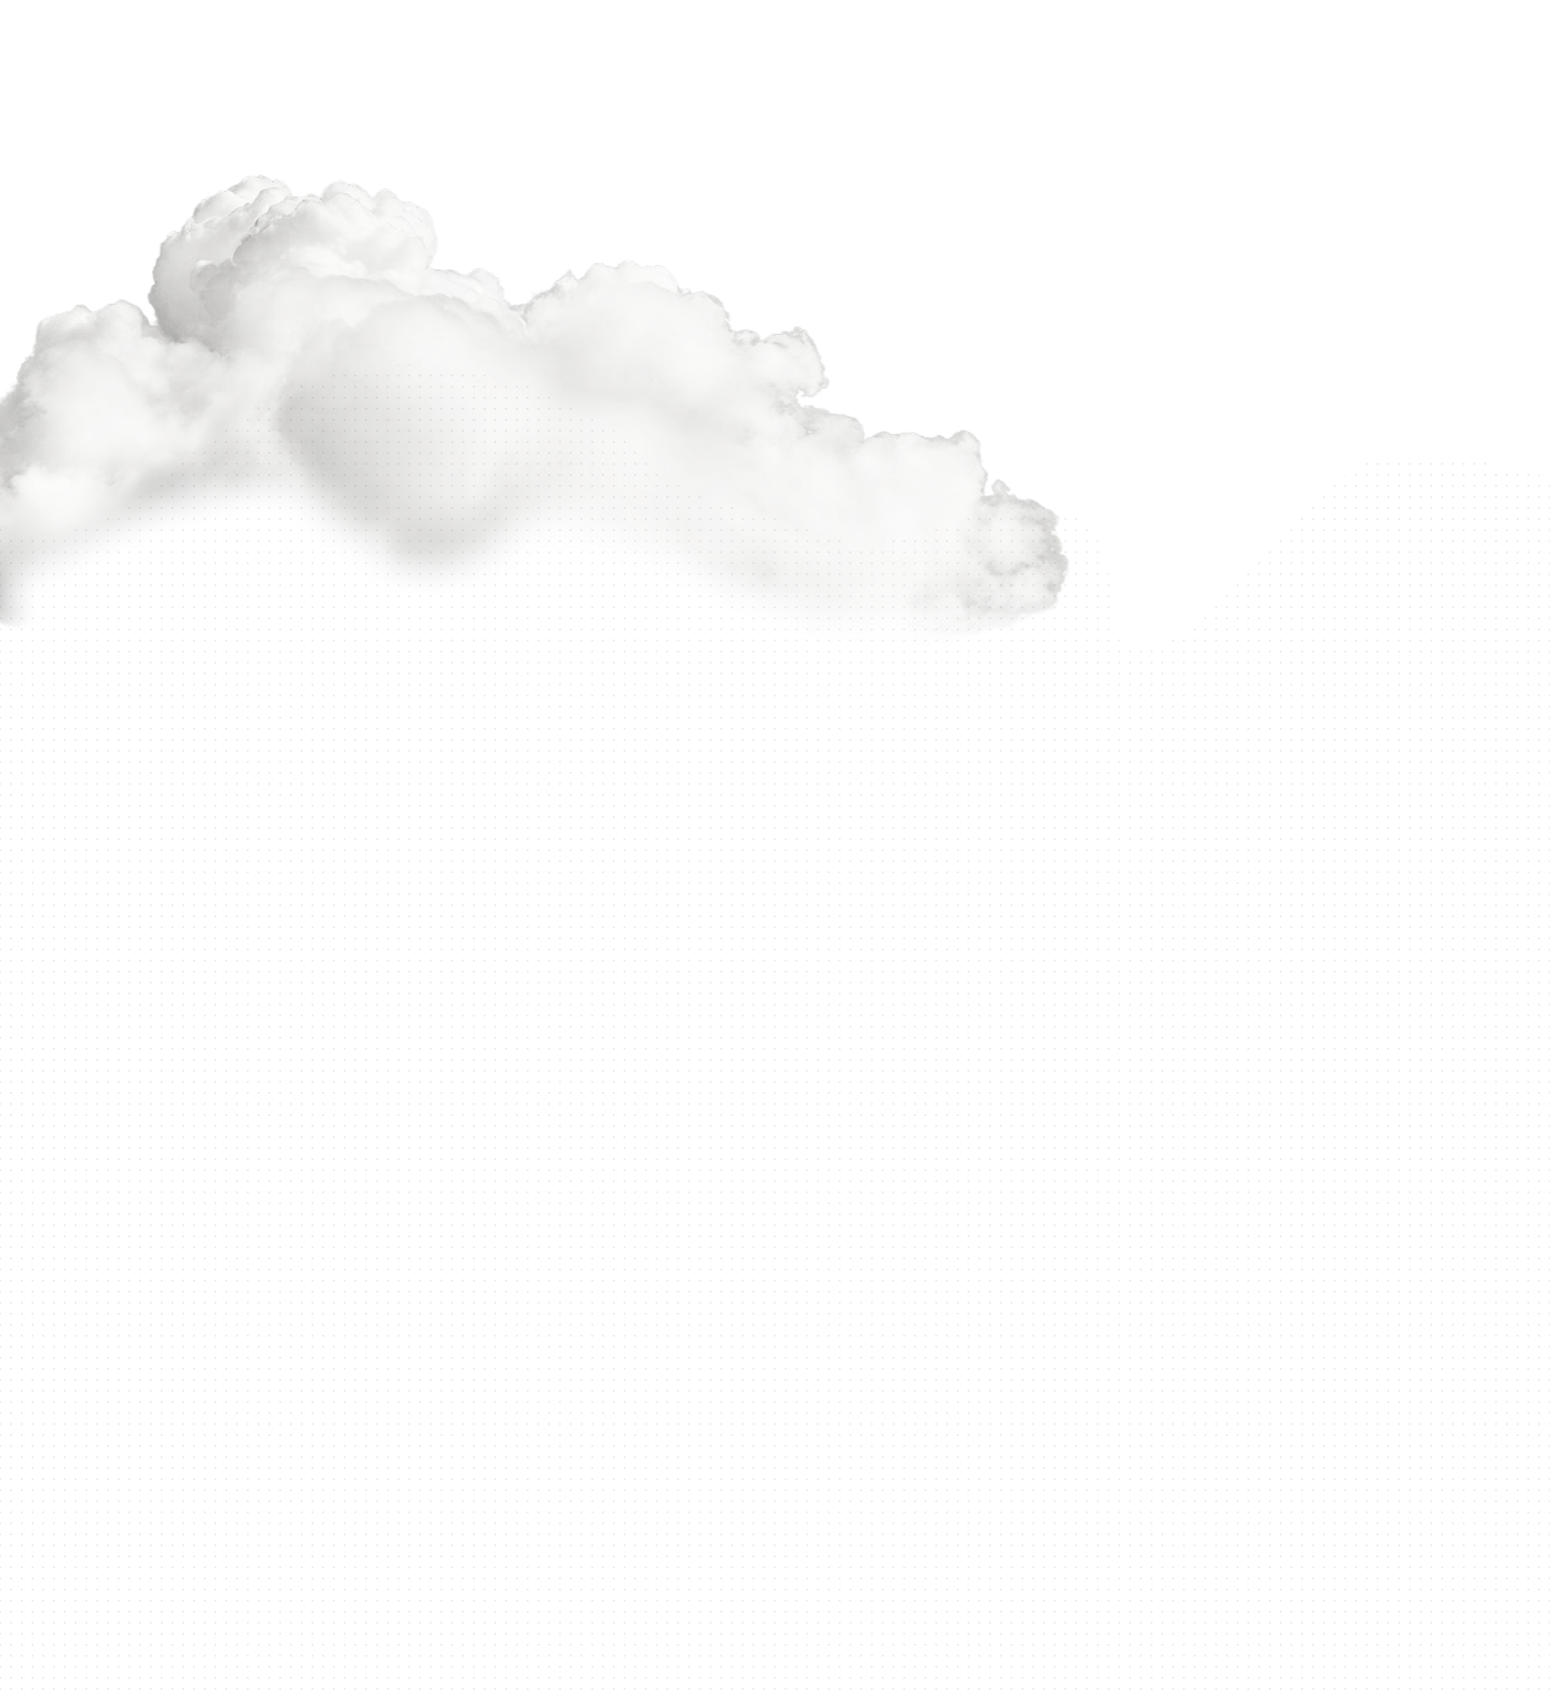
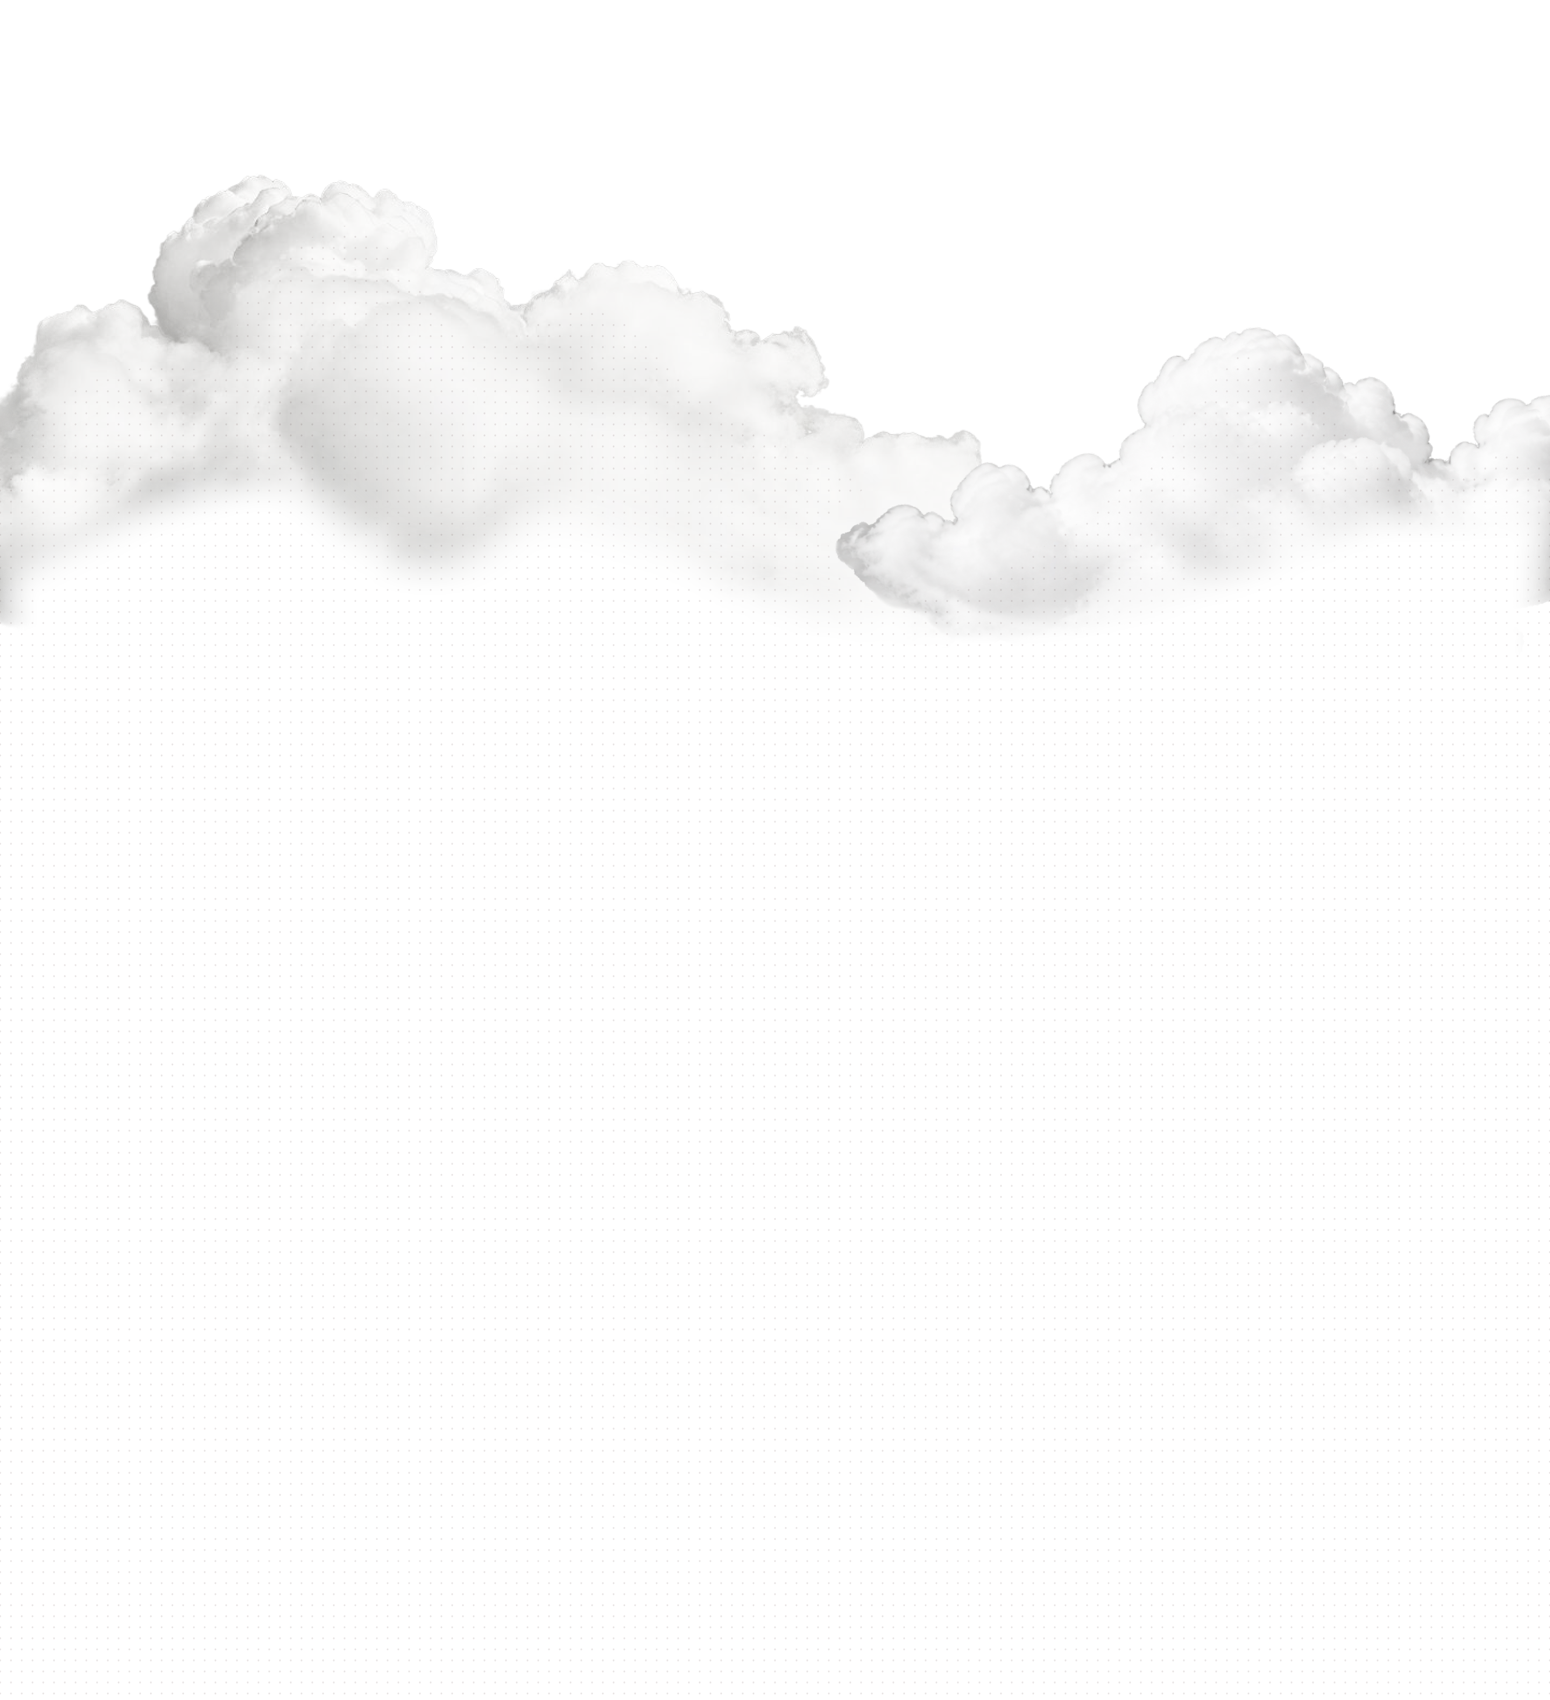
Feature section: shorter cloud-transition scroll, new cloud art, stable step switching
- Reduce pre-feature scroll: statsTrack 440->300vh, featTrack 560->400vh
  (height-only; every fp timing/transform/drift value unchanged, so the
  cloud parallax plays identically over less scroll)
- Swap in updated cloud artwork (top/mid/bottom) at identical pixel dims
- Rework feature-item switching: constant-height open body (no reflow jump),
  sequential opacity+translateY crossfade (~340ms), and progress line eased
  between steps via a constant layout formula instead of live offsetTop

diff --git a/app/components/ShikhoHome.tsx b/app/components/ShikhoHome.tsx
@@ -34,7 +34,7 @@ const HEADER_MARKUP = `
 
 const STATS_MARKUP = `
 <!-- ============ WINDOW HERO → STATS (one continuous pinned section) ============ -->
-  <section id="statsTrack" data-dark="1" style="position:relative;height:440vh;background:#050b26;z-index:1;">
+  <section id="statsTrack" data-dark="1" style="position:relative;height:300vh;background:#050b26;z-index:1;">
     <div id="statsStage" style="position:sticky;top:0;height:100vh;overflow:hidden;">
       <!-- deep sky + sunrise glow -->
       <div style="position:absolute;inset:0;background:radial-gradient(120% 78% at 50% 122%,#ff8a3a 0%,#ff7c2e 7%,rgba(255,150,80,0) 46%),linear-gradient(180deg,#050b26 0%,#0a1a4e 32%,#155fce 70%,#4bb2ff 100%);"></div>
@@ -101,7 +101,7 @@ const STATS_MARKUP = `
 
 const FEATURE_MARKUP = `
 <!-- ============ CORE FEATURES (content over the dotted-white cloud background) ============ -->
-  <section id="featTrack" data-dark="0" style="position:relative;height:560vh;margin-top:-100vh;z-index:2;">
+  <section id="featTrack" data-dark="0" style="position:relative;height:400vh;margin-top:-100vh;z-index:2;">
     <div id="featStage" style="position:sticky;top:0;height:100vh;overflow:hidden;">
 
       <!-- three parallax cloud layers that fly up over the stats. base = top cloud + full white dotted section; mid + bottom = extra cloud volume that sweeps up faster. positions driven by the scroll loop. -->
@@ -470,23 +470,25 @@ export default function ShikhoHome() {
           activeFeat = active;
           fitems.forEach((it, i) => it.classList.toggle('on', i === active));
         }
-        // progress line: only between the active badge and the next, filling as you scroll
+        // progress line: only between the active badge and the next, filling as you scroll.
+        // Position from a CONSTANT layout formula (not live offsetTop) so the CSS top/height
+        // transitions ease smoothly between steps instead of chasing a mid-reflow offset.
+        // Rows above the active one are always compact -> stride = row(48)+gap(12)=60; the open
+        // body is a fixed 112, so the segment length is constant (112+4=116).
         if (featProgTrack && featProg) {
           const last = active >= fitems.length - 1;
           if (last) {
             featProgTrack.style.opacity = '0';
             featProg.style.opacity = '0';
           } else {
-            const cur = fitems[active] as HTMLElement;
-            const nxt = fitems[active + 1] as HTMLElement;
-            const top = cur.offsetTop + 52;             // just below the active badge
-            const h = Math.max(0, (nxt.offsetTop - 4) - top); // stop just above the next badge
+            const top = active * 60 + 52;   // just below the active badge
+            const h = 116;                  // active badge -> next badge (constant)
             featProgTrack.style.opacity = String(activeRevealP);
             featProgTrack.style.top = top + 'px';
             featProgTrack.style.height = h + 'px';
             featProg.style.opacity = String(activeRevealP);
             featProg.style.top = top + 'px';
-            featProg.style.height = h * fillFrac + 'px';
+            featProg.style.height = (h * fillFrac).toFixed(1) + 'px';
           }
         }
         // floating cards keep a gentle parallax relative to the phone

diff --git a/app/globals.css b/app/globals.css
@@ -233,6 +233,9 @@ body {
   display: flex;
   flex-direction: column;
   gap: 12px;
+  /* fixed height so switching the open item never reflows the column:
+     6 rows (48) + 5 gaps (12) + one open body (112) = 460 */
+  min-height: 460px;
 }
 #featProgTrack,
 #featProg {
@@ -243,8 +246,10 @@ body {
   z-index: 0;
   opacity: 0;
 }
-#featProgTrack { background: rgba(10, 12, 17, 0.12); }
-#featProg { background: #3B4EE3; }
+/* ease the line between steps instead of snapping (position set by the scroll loop);
+   the fill's height stays untransitioned so it tracks scroll 1:1 */
+#featProgTrack { background: rgba(10, 12, 17, 0.12); transition: top 0.32s cubic-bezier(0.22, 0.75, 0.28, 1), height 0.32s cubic-bezier(0.22, 0.75, 0.28, 1); }
+#featProg { background: #3B4EE3; transition: top 0.32s cubic-bezier(0.22, 0.75, 0.28, 1); }
 
 /* each feature is a numbered step */
 .fitem { position: relative; }
@@ -280,13 +285,17 @@ body {
   color: #0a0c11;
   transition: color 0.4s ease;
 }
+/* the open body keeps a CONSTANT reserved height (never max-height 0->auto), so
+   switching the active item slides the rows by a fixed amount instead of reflowing
+   to a new total — the column height stays put. */
 .fbody {
   padding-left: 82px;        /* align under the label (48 badge + 34 gap) */
-  max-height: 0;
-  opacity: 0;
+  height: 0;
   overflow: hidden;
-  transition: max-height 0.55s cubic-bezier(0.22, 0.75, 0.28, 1), opacity 0.4s ease;
+  transition: height 0.32s cubic-bezier(0.22, 0.75, 0.28, 1);
 }
+/* text crossfade: the outgoing description fades out FIRST (no delay), the incoming
+   one fades in AFTER a short delay — a soft, sequential swap, no slide/scale. */
 .fbody p {
   font-family: 'Anek Bangla', sans-serif;
   font-weight: 600;
@@ -296,6 +305,9 @@ body {
   color: #161b33;
   margin: 14px 0 2px;
   max-width: 480px;
+  opacity: 0;
+  transform: translateY(8px);
+  transition: opacity 0.18s ease, transform 0.18s ease;
 }
 .fitem.on .fnum {
   color: #3b4ee3;
@@ -303,4 +315,9 @@ body {
   box-shadow: 0 10px 22px -8px rgba(59, 78, 227, 0.32);
 }
 .fitem.on .flabel { color: #3b4ee3; }
-.fitem.on .fbody { max-height: 220px; opacity: 1; }
+.fitem.on .fbody { height: 112px; }
+.fitem.on .fbody p {
+  opacity: 1;
+  transform: translateY(0);
+  transition: opacity 0.22s ease 0.12s, transform 0.22s ease 0.12s;
+}
